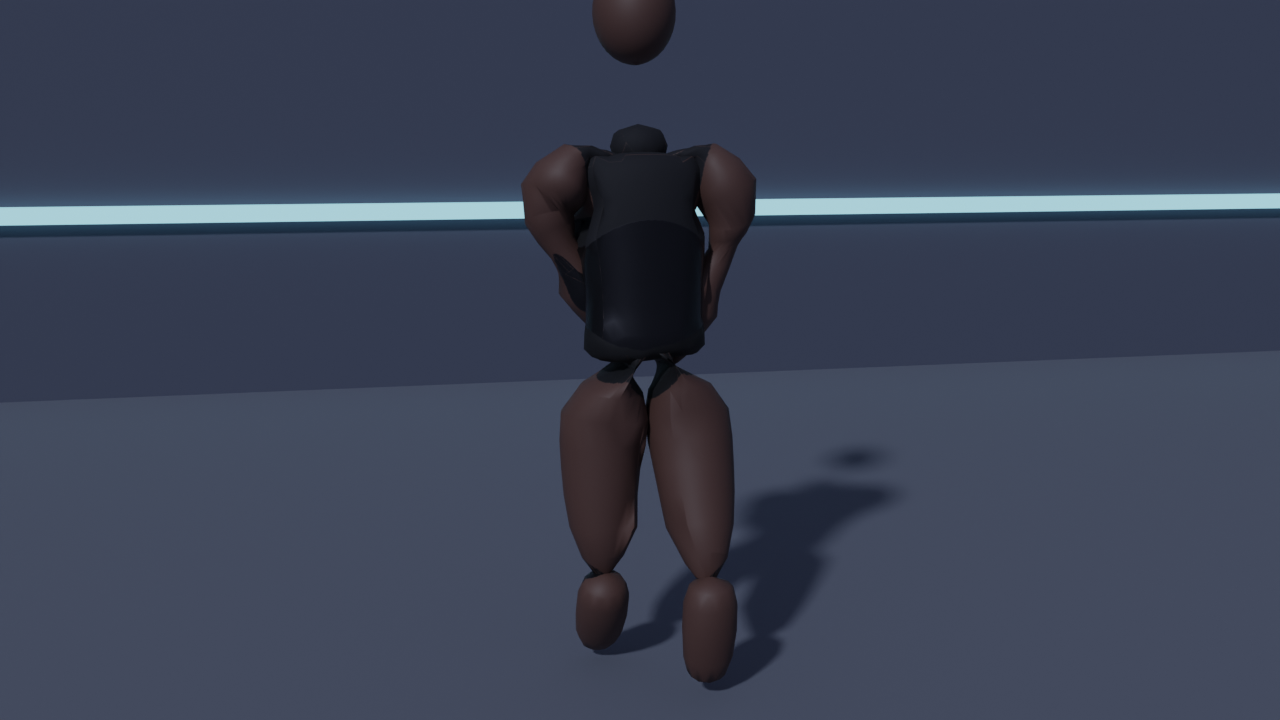
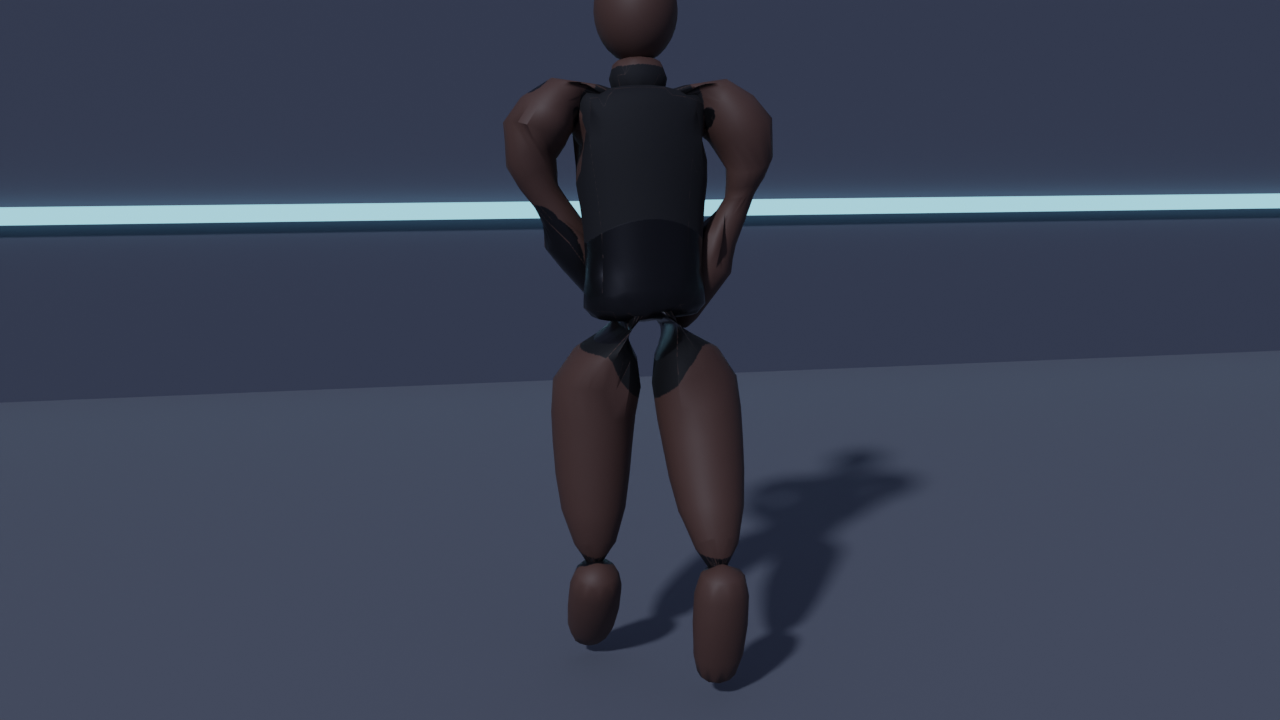
Ship the re-rigged fighters, the arena shots and the smoke test notes
The rig now scales with the proportions of each fighter, so the head
sits on the neck instead of floating above it, and the six arena shots
are rendered from the same models the match loads.

diff --git a/tools/blender/make_screenshots.py b/tools/blender/make_screenshots.py
@@ -264,7 +264,7 @@ def shoot_roster(order, arena):
     print("=== screenshot: roster ===")
     bpy.ops.wm.read_factory_settings(use_empty=True)
 
-    spacing = 2.45
+    spacing = 1.40
     start = -(len(order) - 1) * spacing * 0.5
     for index, fighter_id in enumerate(order):
         rig_object = import_fighter(fighter_id, os.environ.get("BLOODLINE_ACTION", "guard"))
@@ -277,10 +277,12 @@ def shoot_roster(order, arena):
     bpy.context.scene.frame_set(int(os.environ.get("BLOODLINE_FRAME", "18")))
     bpy.context.view_layer.update()
 
-    # Frame the line-up.
-    width = len(order) * spacing
-    distance = max(11.0, width * 1.4)
-    build_camera((0.0, distance, 3.2), (0.0, 0.0, 1.0))
+    # Frame the line-up. The camera has a 48 degree vertical field of
+    # view, so it only has to stand far enough back to see the ends of
+    # the line.
+    width = (len(order) - 1) * spacing + 0.8
+    distance = max(6.0, width * 1.15)
+    build_camera((0.0, distance, 1.45), (0.0, 0.0, 0.95))
     os.makedirs(OUT_DIR, exist_ok=True)
     render_to(os.path.join(OUT_DIR, "roster.png"))
 
@@ -293,12 +295,15 @@ def main():
     order = [f for f in order if os.path.exists(os.path.join(CHAR_DIR, f + ".glb"))]
 
     only = os.environ.get("BLOODLINE_ONLY", "")
+    roster_only = os.environ.get("BLOODLINE_ROSTER", "") == "1"
     for fighter_id in order:
+        if roster_only:
+            break
         if only and fighter_id != only:
             continue
         shoot_fighter(fighter_id, arena)
 
-    if not only:
+    if not only or roster_only:
         shoot_roster(order, arena)
 
 

diff --git a/tools/blender/bloodline_rig.py b/tools/blender/bloodline_rig.py
@@ -95,8 +95,15 @@ def _torso_sections(height, bulk, torso):
     ]
 
 
-def build_armature(name="Rig"):
-    """Create the shared armature and return the object."""
+def build_armature(name="Rig", height=1.0, bulk=1.0):
+    """Create the shared armature and return the object.
+
+    The bones are written for a fighter of average build, so they are
+    scaled to the proportions of the fighter: the height stretches the
+    skeleton along the spine and the bulk widens it. The body mesh is
+    built from the same proportions, so the two always agree and the
+    head never floats away from the neck.
+    """
     arm_data = bpy.data.armatures.new(name)
     arm = bpy.data.objects.new(name, arm_data)
     bpy.context.scene.collection.objects.link(arm)
@@ -104,8 +111,8 @@ def build_armature(name="Rig"):
     bpy.ops.object.mode_set(mode="EDIT")
     for bname, head, tail, parent in BONES:
         eb = arm_data.edit_bones.new(bname)
-        eb.head = head
-        eb.tail = tail
+        eb.head = (head[0] * bulk, head[1] * bulk, head[2] * height)
+        eb.tail = (tail[0] * bulk, tail[1] * bulk, tail[2] * height)
         if parent:
             eb.parent = arm_data.edit_bones[parent]
     bpy.ops.object.mode_set(mode="OBJECT")

diff --git a/tools/blender/generate_fighters.py b/tools/blender/generate_fighters.py
@@ -249,7 +249,9 @@ def build_fighter(fighter_id, spec):
     print("=== building fighter: %s ===" % fighter_id)
     bpy.ops.wm.read_factory_settings(use_empty=True)
 
-    arm = rig.build_armature("Rig")
+    arm = rig.build_armature(
+        "Rig", height=spec["proportions"]["height"], bulk=spec["proportions"]["bulk"]
+    )
     body = rig.build_body(arm, spec["proportions"], name="Body")
 
     # Bind the body to the rig. Without a live Armature modifier the glTF

diff --git a/README.md b/README.md
@@ -23,7 +23,9 @@ sideload it over ADB with `adb install bloodline-debug.apk`).
 
 The build workflow lives at
 [`.github/workflows/android-apk.yml`](.github/workflows/android-apk.yml) and
-runs on every push to the branch and on every pull request.
+runs on every push to the branch and on every pull request. It lints the
+GDScript, imports the project, exports the APK, uploads it as the
+`bloodline-debug-apk` artifact, and then runs the headless smoke test.
 
 ---
 
@@ -156,6 +158,9 @@ Game/                       Godot project root
     portraits/*.png         fighter select portraits, rendered from the same rig
     screenshots/*.png       the fighter standing in the arena, used in the menus and the README
     preview/*.png           turnaround renders used for art review
+  tools/
+    smoke_test.gd           headless test: every screen, a whole match, the save
+    smoke_test.tscn         the scene that runs it
 
 tools/
   blender/                  the asset pipeline
@@ -215,13 +220,22 @@ These are not negotiable and are enforced by the design:
 ```bash
 # Lint and format the GDScript.
 pip install gdtoolkit==4.5.0
-gdlint Game/scripts
-gdformat Game/scripts
+cd Game && gdlint scripts tools && gdformat scripts tools
 
 # Import the project and export a debug APK locally.
 godot --headless --path Game --import
 cd Game && godot --headless --export-debug "Android" build/bloodline-debug.apk
+
+# Run the headless smoke test: every screen, a whole AI match, the save.
+cd Game && godot --headless --path . res://tools/smoke_test.tscn
 ```
+
+The smoke test builds all eleven screens, runs a 600 frame match with the
+AI driving the opponent, checks that the AI actually lands hits and that
+a match can only be credited once. It prints `smoke: PASSED` at the end.
+The CI workflow runs it on every build and fails the build if it does not
+pass or if any script logs an error, so a broken screen can never reach
+the APK.
 
 The Android export needs JDK 17, the Android SDK (platform-tools,
 build-tools 35.0.1, platforms android-35) and the Godot 4.7.2 export
